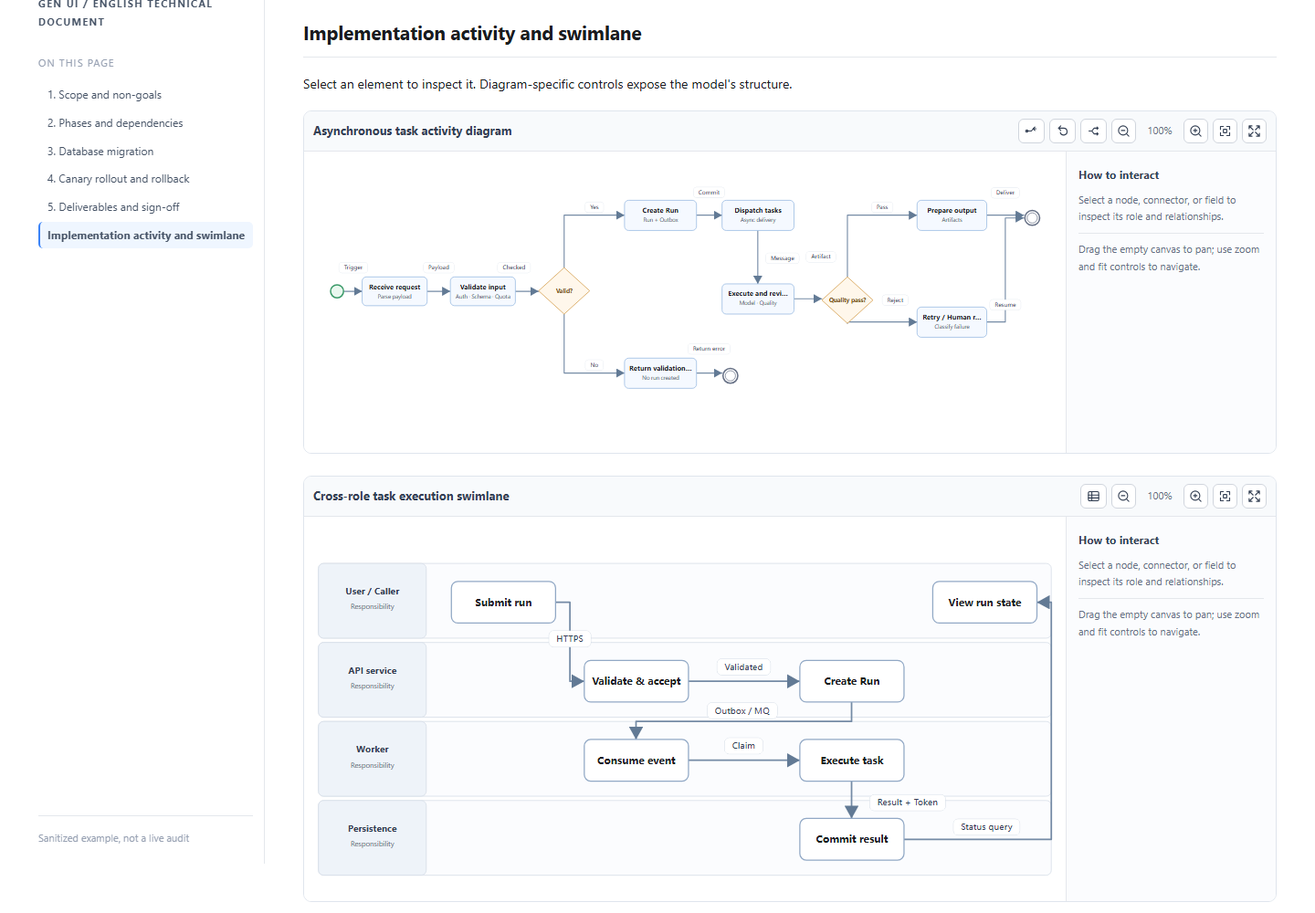
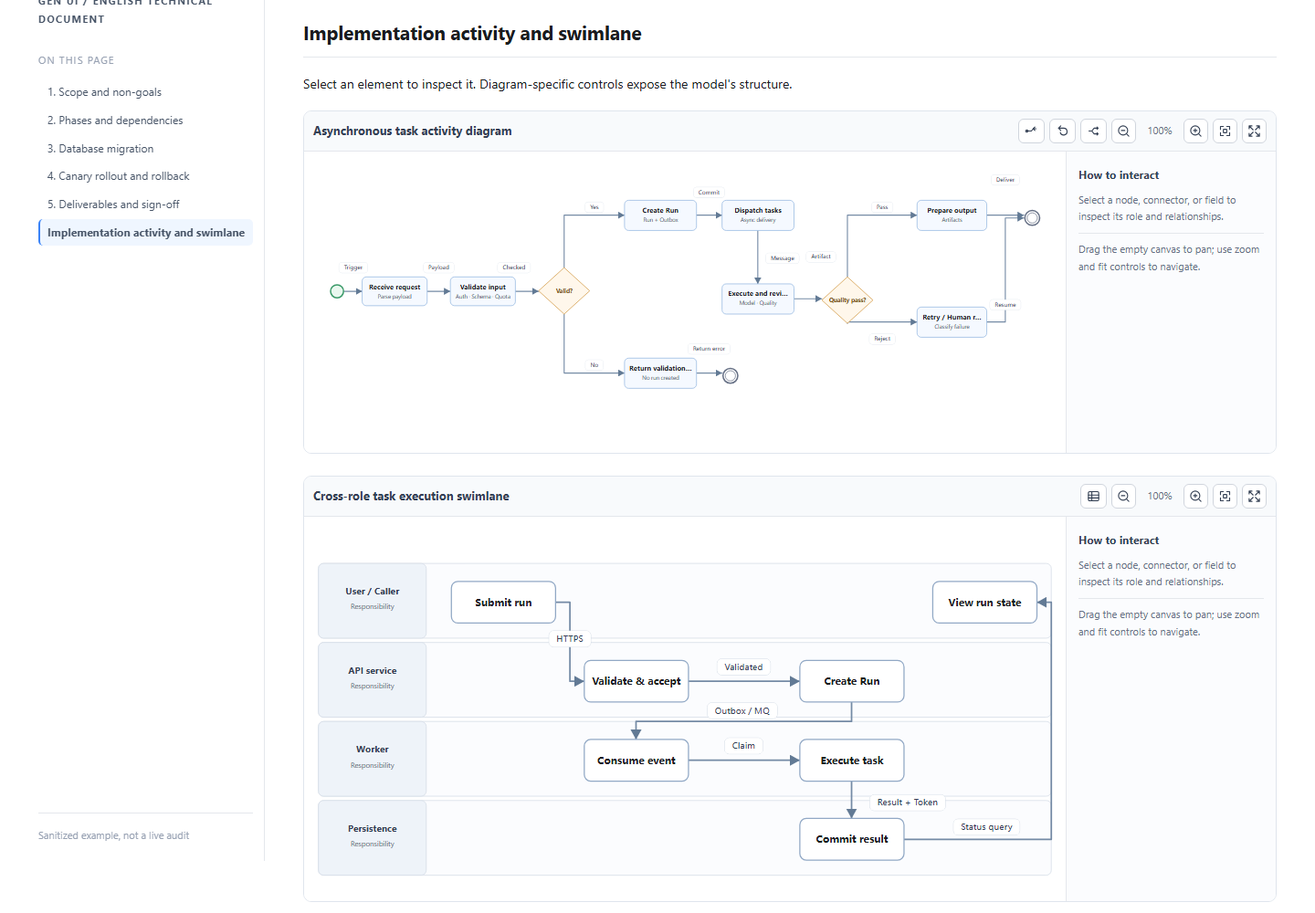
fix: 优化导航图标与自适应箭头并重绘真实工程架构案例
导航交互,语义图表,表格展示,架构案例,测试验收

gen-ui

diff --git a/demo/architecture-patterns.html b/demo/architecture-patterns.html
@@ -1,8 +1,18 @@
-<!doctype html><html lang="zh-CN"><head><meta charset="utf-8"><meta name="viewport" content="width=device-width,initial-scale=1"><title>GEN-UI · 八类架构展示</title><link rel="icon" href="../assets/icons/gen-ui-mark.svg" type="image/svg+xml"><link rel="stylesheet" href="../assets/architecture-views.css"><script src="../assets/architecture-views.js" defer></script><link rel="stylesheet" href="documents/assets/document.css"><link rel="stylesheet" href="../assets/heading-nav.css"><script src="../assets/heading-nav.js" defer></script></head><body><div class="doc-layout"><aside class="doc-toc" aria-label="架构目录"><p class="toc-label">架构目录</p><nav aria-label="架构目录"><ul class="toc-list"><li><a href="#arch-0">业务架构</a></li><li><a href="#arch-1">产品架构</a></li><li><a href="#arch-2">系统架构</a></li><li><a href="#arch-3">数据架构</a></li><li><a href="#arch-4">技术架构</a></li><li><a href="#arch-5">应用架构</a></li><li><a href="#arch-6">功能架构</a></li><li><a href="#arch-7">信息架构</a></li></ul></nav></aside><main class="doc-main" id="main"><h1>八类架构图 · 分层与容器呈现</h1><p>内容为示例，仅展示架构图的表达方式。结构/归属不需要强制添加连接线；依赖明确时才升级为关系图。</p><section><h2 id="arch-0">一、业务架构</h2><div data-architecture-view><script type="application/json">{"type":"业务架构","title":"业务架构结构示例","layout":"stack","groups":[{"name":"客户价值链","items":["用户触达","交易与服务","客户成功"]},{"name":"业务能力域","items":["用户与账户","订单与履约","结算与对账"]},{"name":"运营支撑","items":["规则配置","运营分析","风险治理"]}]}</script><noscript>客户价值链：用户触达、交易与服务、客户成功；业务能力域：用户与账户、订单与履约、结算与对账；运营支撑：规则配置、运营分析、风险治理</noscript></div></section>
-<section><h2 id="arch-1">二、产品架构</h2><div data-architecture-view><script type="application/json">{"type":"产品架构","title":"产品架构结构示例","layout":"groups","groups":[{"name":"用户端产品","items":["Web 控制台","移动端入口"]},{"name":"运营端产品","items":["运营后台","报表中心"]},{"name":"基础产品能力","items":["账户体系","权限管理"]}]}</script><noscript>用户端产品：Web 控制台、移动端入口；运营端产品：运营后台、报表中心；基础产品能力：账户体系、权限管理</noscript></div></section>
-<section><h2 id="arch-2">三、系统架构</h2><div data-architecture-view><script type="application/json">{"type":"系统架构","title":"系统架构结构示例","layout":"stack","groups":[{"name":"接入层","items":["Web / App","开放 API"]},{"name":"业务系统层","children":[{"name":"订单系统","items":["订单 API","订单履约"]},{"name":"任务系统","children":[{"name":"调度域","items":["任务队列","执行租约"]}]}]},{"name":"平台基础层","items":["认证中心","调度服务","数据存储"]}]}</script><noscript>接入层：Web / App、开放 API；业务系统层：订单系统、任务系统、管理系统；平台基础层：认证中心、调度服务、数据存储</noscript></div></section>
-<section><h2 id="arch-3">四、数据架构</h2><div data-architecture-view><script type="application/json">{"type":"数据架构","title":"数据架构结构示例","layout":"stack","groups":[{"name":"数据源","items":["业务事件","用户行为","系统日志"]},{"name":"治理与存储","items":["采集清洗","质量管理","主题数据"]},{"name":"数据消费","items":["指标分析","查询服务","业务报表"]}]}</script><noscript>数据源：业务事件、用户行为、系统日志；治理与存储：采集清洗、质量管理、主题数据；数据消费：指标分析、查询服务、业务报表</noscript></div></section>
-<section><h2 id="arch-4">五、技术架构</h2><div data-architecture-view><script type="application/json">{"type":"技术架构","title":"技术架构结构示例","layout":"stack","groups":[{"name":"接入技术","items":["HTTP API","网关与鉴权"]},{"name":"业务技术","items":["服务编排","异步任务","缓存"]},{"name":"基础设施","items":["数据库","消息队列","日志监控"]}]}</script><noscript>接入技术：HTTP API、网关与鉴权；业务技术：服务编排、异步任务、缓存；基础设施：数据库、消息队列、日志监控</noscript></div></section>
-<section><h2 id="arch-5">六、应用架构</h2><div data-architecture-view><script type="application/json">{"type":"应用架构","title":"应用架构结构示例","layout":"columns","groups":[{"name":"业务应用","items":["订单应用","客户应用"]},{"name":"平台应用","items":["任务中心","权限中心"]},{"name":"公共服务","items":["通知服务","搜索服务"]}]}</script><noscript>业务应用：订单应用、客户应用；平台应用：任务中心、权限中心；公共服务：通知服务、搜索服务</noscript></div></section>
-<section><h2 id="arch-6">七、功能架构</h2><div data-architecture-view><script type="application/json">{"type":"功能架构","title":"功能架构结构示例","layout":"groups","groups":[{"name":"管理功能","items":["资源管理","权限设置"]},{"name":"核心功能","items":["任务创建","执行追踪","结果审核"]},{"name":"分析功能","items":["数据统计","质量监控"]}]}</script><noscript>管理功能：资源管理、权限设置；核心功能：任务创建、执行追踪、结果审核；分析功能：数据统计、质量监控</noscript></div></section>
-<section><h2 id="arch-7">八、信息架构</h2><div data-architecture-view><script type="application/json">{"type":"信息架构","title":"信息架构结构示例","layout":"groups","groups":[{"name":"一级导航","items":["概览","项目","设置"]},{"name":"项目栏目","items":["列表","详情","日志"]},{"name":"帮助中心","items":["文档","反馈"]}]}</script><noscript>一级导航：概览、项目、设置；项目栏目：列表、详情、日志；帮助中心：文档、反馈</noscript></div></section></main></div></body></html>
+<!doctype html><html lang="zh-CN" data-heading-numbering="chinese"><head><meta charset="utf-8"><meta name="viewport" content="width=device-width,initial-scale=1">
+<title>GEN-UI · 八类真实工程架构案例</title><link rel="icon" href="../assets/icons/gen-ui-mark.svg" type="image/svg+xml">
+<link rel="stylesheet" href="../assets/architecture-views.css"><link rel="stylesheet" href="documents/assets/document.css"><link rel="stylesheet" href="../assets/heading-nav.css">
+<script src="../assets/architecture-views.js" defer></script><script src="../assets/heading-nav.js" defer></script>
+<style>.architecture-example{margin-bottom:32px}.architecture-context{font-size:12px;color:#667085;margin:6px 0 11px}.architecture-intro{color:#475467;line-height:1.7}.architecture-source{border-left:3px solid #8db4e8;padding:10px 13px;background:#f7faff;color:#475467;font-size:12px;margin:16px 0 25px}</style>
+</head><body><div class="doc-layout"><aside class="doc-toc" aria-label="架构目录"><p class="toc-brand">GEN-UI · 架构案例</p><p class="toc-label">八类架构</p><nav aria-label="架构目录"><ul class="toc-list"><li><a href="#arch-0">业务架构</a></li><li><a href="#arch-1">产品架构</a></li><li><a href="#arch-2">系统架构</a></li><li><a href="#arch-3">数据架构</a></li><li><a href="#arch-4">技术架构</a></li><li><a href="#arch-5">应用架构</a></li><li><a href="#arch-6">功能架构</a></li><li><a href="#arch-7">信息架构</a></li></ul></nav><div class="toc-foot">结构 + 真实模块 + 关键链路</div></aside>
+<main class="doc-main" id="main"><h1>八类架构图 · 分层与容器呈现</h1>
+<p class="architecture-intro">分别用业务、产品、系统、数据、技术、应用、功能、信息八种视角，拆解本地实际工程的领域边界、模块归属与关键调用方向。箭头只表示在工程资料中有依据的逻辑协作；连线名称决定箭头最小长度，避免文字与箭头相互遮挡。</p>
+<div class="architecture-source"><strong>案例依据：</strong>Yopu 项目现有后端模块与《项目架构全景》、Yopu IM 核心/消息记录模块，以及 StoryOS 的 platform/workflow/agent/trace 代码和架构文档。<strong>说明：</strong>这是基于仓库结构和设计资料的架构表达示例，不是实际生产环境部署拓扑或上线状态认证；没有包含内部 IP、端口或敏感配置。</div>
+<section class="architecture-example" aria-labelledby="arch-0"><h2 id="arch-0">一、业务架构</h2><p class="architecture-context">Yopu · 商户交易与结算价值链</p><div data-architecture-view><script type="application/json">{"type":"业务架构","title":"Yopu · 商户交易与结算价值链","layout":"stack","groups":[{"name":"客户与商户入口","items":["移动端业务入口（客户端不在当前后端仓库）","商户运营后台 yopu-merchant-ui","平台运营后台 yopu-platform-ui"]},{"name":"客户与经营能力","items":["yopu-crm 客户管理","yopu-merchant 商户管理","yopu-marketing 营销能力"]},{"name":"交易处理能力","items":["yopu-trade-order 交易订单","业务状态与订单查询","交易领域服务"]},{"name":"财务与运营支持","items":["yopu-billing-account 账户","yopu-billing-settle 结算","yopu-monitor 监控"]}],"flows":[{"from":"客户与商户入口","to":"客户与经营能力","label":"身份与客户资料经 Gateway 进入业务服务"},{"from":"客户与经营能力","to":"交易处理能力","label":"商户与客户信息支撑订单业务"},{"from":"交易处理能力","to":"财务与运营支持","label":"交易订单与账户结算的业务协作"}]}</script><noscript>客户与商户入口: 移动端业务入口（客户端不在当前后端仓库）、商户运营后台 yopu-merchant-ui、平台运营后台 yopu-platform-ui；客户与经营能力: yopu-crm 客户管理、yopu-merchant 商户管理、yopu-marketing 营销能力；交易处理能力: yopu-trade-order 交易订单、业务状态与订单查询、交易领域服务；财务与运营支持: yopu-billing-account 账户、yopu-billing-settle 结算、yopu-monitor 监控</noscript></div></section>
+<section class="architecture-example" aria-labelledby="arch-1"><h2 id="arch-1">二、产品架构</h2><p class="architecture-context">Yopu · 用户界面与后台产品模块</p><div data-architecture-view><script type="application/json">{"type":"产品架构","title":"Yopu · 用户界面与后台产品模块","layout":"groups","groups":[{"name":"商户经营产品","items":["商户运营 Web UI","业务操作与列表查询","商户业务入口"]},{"name":"平台管理产品","items":["平台运营 Web UI","管理端 Admin API","平台运营和配置"]},{"name":"移动与消息入口","items":["App / 小程序调用（外部客户端）","IM 会话消息入口","WebSocket 实时连接"]},{"name":"共享后端服务","items":["Gateway API 路由","CRM / Trade / IM","Platform Admin 服务"]}],"flows":[{"from":"商户经营产品","to":"共享后端服务","label":"商户控制台经 HTTP API 接入网关"},{"from":"平台管理产品","to":"共享后端服务","label":"平台后台调用 Admin API"},{"from":"移动与消息入口","to":"共享后端服务","label":"业务 HTTP 请求 / IM WebSocket 路由"}]}</script><noscript>商户经营产品: 商户运营 Web UI、业务操作与列表查询、商户业务入口；平台管理产品: 平台运营 Web UI、管理端 Admin API、平台运营和配置；移动与消息入口: App / 小程序调用（外部客户端）、IM 会话消息入口、WebSocket 实时连接；共享后端服务: Gateway API 路由、CRM / Trade / IM、Platform Admin 服务</noscript></div></section>
+<section class="architecture-example" aria-labelledby="arch-2"><h2 id="arch-2">三、系统架构</h2><p class="architecture-context">Yopu · 网关、微服务与基础设施</p><div data-architecture-view><script type="application/json">{"type":"系统架构","title":"Yopu · 网关、微服务与基础设施","layout":"stack","groups":[{"name":"接入层","items":["商户 / 平台 Web UI","移动客户端 API","IM WebSocket 连接"]},{"name":"路由与接入网关","items":["yopu-gateway-core","API 路由与鉴权","/ws 实时连接转发"]},{"name":"业务微服务层","children":[{"name":"核心业务域","items":["yopu-crm","yopu-trade-order","yopu-merchant"]},{"name":"通信与结算","items":["yopu-im-core","yopu-billing-account","yopu-billing-settle"]}]},{"name":"基础服务层","items":["Nacos 服务发现与配置","Redis 缓存","RabbitMQ 消息","MySQL 业务库"]}],"flows":[{"from":"接入层","to":"路由与接入网关","label":"HTTP / WebSocket 请求进入统一入口"},{"from":"路由与接入网关","to":"业务微服务层","label":"路由分发到对应领域服务"},{"from":"业务微服务层","to":"基础服务层","label":"注册发现、缓存、消息投递与数据读写"}]}</script><noscript>接入层: 商户 / 平台 Web UI、移动客户端 API、IM WebSocket 连接；路由与接入网关: yopu-gateway-core、API 路由与鉴权、/ws 实时连接转发；业务微服务层:  / 核心业务域：yopu-crm、yopu-trade-order、yopu-merchant / 通信与结算：yopu-im-core、yopu-billing-account、yopu-billing-settle；基础服务层: Nacos 服务发现与配置、Redis 缓存、RabbitMQ 消息、MySQL 业务库</noscript></div></section>
+<section class="architecture-example" aria-labelledby="arch-3"><h2 id="arch-3">四、数据架构</h2><p class="architecture-context">StoryOS · 工作流状态与证据数据</p><div data-architecture-view><script type="application/json">{"type":"数据架构","title":"StoryOS · 工作流状态与证据数据","layout":"stack","groups":[{"name":"业务输入与配置","items":["故事创作请求","Workflow 定义与阶段参数","模型/资源配置"]},{"name":"执行状态模型","items":["Workflow / Node 状态","Task / Attempt 执行记录","失败重试与断点恢复"]},{"name":"事件与证据模型","items":["Event 事件轨迹","Trace 链路追踪","Artifact 工件引用"]},{"name":"存储与恢复边界","items":["MySQL 状态和任务持久化","Redis 心跳/调度辅助","任务重启后的执行对账"]}],"flows":[{"from":"业务输入与配置","to":"执行状态模型","label":"工作流定义实例化为节点和独立任务"},{"from":"执行状态模型","to":"事件与证据模型","label":"执行尝试记录状态、事件与工件证据"},{"from":"事件与证据模型","to":"存储与恢复边界","label":"可追溯状态写入持久层并用于恢复校验"}]}</script><noscript>业务输入与配置: 故事创作请求、Workflow 定义与阶段参数、模型/资源配置；执行状态模型: Workflow / Node 状态、Task / Attempt 执行记录、失败重试与断点恢复；事件与证据模型: Event 事件轨迹、Trace 链路追踪、Artifact 工件引用；存储与恢复边界: MySQL 状态和任务持久化、Redis 心跳/调度辅助、任务重启后的执行对账</noscript></div></section>
+<section class="architecture-example" aria-labelledby="arch-4"><h2 id="arch-4">五、技术架构</h2><p class="architecture-context">Yopu · Spring Cloud Alibaba 技术分层</p><div data-architecture-view><script type="application/json">{"type":"技术架构","title":"Yopu · Spring Cloud Alibaba 技术分层","layout":"columns","groups":[{"name":"网络与协议","items":["HTTP / REST API","Spring Cloud Gateway","Netty WebSocket"]},{"name":"服务治理与持久化","items":["Spring Cloud Alibaba","Nacos 服务注册/配置","MyBatis-Plus"]},{"name":"状态与异步设施","items":["Redis 缓存与锁","RabbitMQ 消息传递","MySQL 业务持久化"]},{"name":"工程支撑","items":["公共 Starter / Common","Job 后台任务","Monitor 运行监控"]}],"flows":[{"from":"网络与协议","to":"服务治理与持久化","label":"统一协议入口与服务发现"},{"from":"服务治理与持久化","to":"状态与异步设施","label":"服务读写状态与异步投递"},{"from":"状态与异步设施","to":"工程支撑","label":"运行指标、后台调度与公共能力协同"}]}</script><noscript>网络与协议: HTTP / REST API、Spring Cloud Gateway、Netty WebSocket；服务治理与持久化: Spring Cloud Alibaba、Nacos 服务注册/配置、MyBatis-Plus；状态与异步设施: Redis 缓存与锁、RabbitMQ 消息传递、MySQL 业务持久化；工程支撑: 公共 Starter / Common、Job 后台任务、Monitor 运行监控</noscript></div></section>
+<section class="architecture-example" aria-labelledby="arch-5"><h2 id="arch-5">六、应用架构</h2><p class="architecture-context">Yopu · 领域微服务模块划分</p><div data-architecture-view><script type="application/json">{"type":"应用架构","title":"Yopu · 领域微服务模块划分","layout":"columns","groups":[{"name":"客户与商户域","items":["yopu-crm","yopu-merchant","yopu-marketing"]},{"name":"交易与财务域","items":["yopu-trade-order","yopu-billing-account","yopu-billing-settle"]},{"name":"实时通信域","items":["yopu-im-core","yopu-im-record","Netty WebSocket"]},{"name":"平台支撑域","items":["yopu-gateway-core","yopu-platform","yopu-job / yopu-monitor"]}],"flows":[{"from":"平台支撑域","to":"客户与商户域","label":"网关路由及平台公共服务接入"},{"from":"客户与商户域","to":"交易与财务域","label":"客户与商户信息用于交易、账户和结算"},{"from":"平台支撑域","to":"实时通信域","label":"网关 /ws 路由进入 IM Core"}]}</script><noscript>客户与商户域: yopu-crm、yopu-merchant、yopu-marketing；交易与财务域: yopu-trade-order、yopu-billing-account、yopu-billing-settle；实时通信域: yopu-im-core、yopu-im-record、Netty WebSocket；平台支撑域: yopu-gateway-core、yopu-platform、yopu-job / yopu-monitor</noscript></div></section>
+<section class="architecture-example" aria-labelledby="arch-6"><h2 id="arch-6">七、功能架构</h2><p class="architecture-context">StoryOS · AI 内容生产工作流</p><div data-architecture-view><script type="application/json">{"type":"功能架构","title":"StoryOS · AI 内容生产工作流","layout":"stack","groups":[{"name":"故事与分镜策划","items":["故事目标和约束","故事策划 Agent","分镜任务定义"]},{"name":"图片生产与任务分解","items":["按分镜拆分独立 Task","模型调用与并发执行","Task Attempt 重试"]},{"name":"质量审核与恢复","items":["角色一致性/画面质量审核","质量失败与技术失败分流","断点恢复及执行对账"]},{"name":"交付与可观测性","items":["发布准备与结果清单","Event / Trace / Artifact","执行状态和工件追踪"]}],"flows":[{"from":"故事与分镜策划","to":"图片生产与任务分解","label":"分镜逐项映射为独立可恢复的生成任务"},{"from":"图片生产与任务分解","to":"质量审核与恢复","label":"每次生成尝试进入质量校验或错误重试"},{"from":"质量审核与恢复","to":"交付与可观测性","label":"合格工件附带执行证据进入发布准备"}]}</script><noscript>故事与分镜策划: 故事目标和约束、故事策划 Agent、分镜任务定义；图片生产与任务分解: 按分镜拆分独立 Task、模型调用与并发执行、Task Attempt 重试；质量审核与恢复: 角色一致性/画面质量审核、质量失败与技术失败分流、断点恢复及执行对账；交付与可观测性: 发布准备与结果清单、Event / Trace / Artifact、执行状态和工件追踪</noscript></div></section>
+<section class="architecture-example" aria-labelledby="arch-7"><h2 id="arch-7">八、信息架构</h2><p class="architecture-context">Yopu IM · 会话、消息与管理信息</p><div data-architecture-view><script type="application/json">{"type":"信息架构","title":"Yopu IM · 会话、消息与管理信息","layout":"groups","groups":[{"name":"会话与联系人","items":["会话列表","聊天会话标识","用户/群组上下文"]},{"name":"实时消息视图","items":["消息正文与发送方","消息列表及序列","WebSocket 连接状态"]},{"name":"送达与记录","items":["客户端 ACK 状态","消息历史记录","会话消息索引"]},{"name":"后台管理与审核","items":["IM 内部管理 API","消息内容审核相关控制器","会话归档与采集任务"]}],"flows":[{"from":"会话与联系人","to":"实时消息视图","label":"按会话定位消息列表和实时通信内容"},{"from":"实时消息视图","to":"送达与记录","label":"消息发送、送达回执与历史记录关联"},{"from":"送达与记录","to":"后台管理与审核","label":"消息归档、采集与管理信息聚合"}]}</script><noscript>会话与联系人: 会话列表、聊天会话标识、用户/群组上下文；实时消息视图: 消息正文与发送方、消息列表及序列、WebSocket 连接状态；送达与记录: 客户端 ACK 状态、消息历史记录、会话消息索引；后台管理与审核: IM 内部管理 API、消息内容审核相关控制器、会话归档与采集任务</noscript></div></section>
+</main></div></body></html>

diff --git a/assets/semantic-diagrams.js b/assets/semantic-diagrams.js
@@ -215,7 +215,7 @@
    const g=svg("g",{class:"semantic-edge", "data-selectable":"true","data-id":uniqueId,"data-source":spec.from,"data-target":spec.to,"data-kind":"relationship","data-title":text(spec.label,lang),"data-summary":text(spec.detail||T("该连线表示两个元素之间的关系。","This connector represents a relationship between two elements."),lang),"tabindex":"0","role":"button"},svgRoot);
   svg("path",{d:spec.d,fill:"none",stroke:"#748aa5","stroke-width":"2.2","stroke-linecap":"round","stroke-linejoin":"round","marker-end":"url(#"+svgRoot.dataset.markerId+")","stroke-dasharray":spec.dashed?"6 5":null},g);
   const value=text(spec.label,lang);
-  if(value){const w=labelWidth(value,lang),x=spec.lx-w/2,y=spec.ly-11;const chip=svg("g",{class:"semantic-edge-chip","data-selectable":"true","data-id":g.dataset.id,"data-source":spec.from,"data-target":spec.to,"data-kind":"relationship","data-title":g.dataset.title,"data-summary":g.dataset.summary,"data-detail":text(spec.detail||spec.label,lang),"data-base-x":spec.lx,"data-base-y":spec.ly,tabindex:"0",role:"button","aria-label":value},svgRoot);svg("rect",{class:"semantic-edge-label-bg",x,y,width:w,height:22,rx:6,fill:"#fff",stroke:"#d0d5dd","stroke-width":"1"},chip);svg("text",{class:"semantic-edge-label",x:spec.lx,y:spec.ly+4,"text-anchor":"middle","font-size":"12","font-family":"system-ui,sans-serif",fill:"#344054"},chip,value);svg("title",{},chip,value);if(spec.messageIndex!==undefined){g.dataset.messageIndex=spec.messageIndex;chip.dataset.messageIndex=spec.messageIndex;}if(spec.path){g.dataset.path=spec.path;chip.dataset.path=spec.path;}}
+  if(value){const w=labelWidth(value,lang),x=spec.lx-w/2,y=spec.ly-11;const chip=svg("g",{class:"semantic-edge-chip","data-selectable":"true","data-id":g.dataset.id,"data-source":spec.from,"data-target":spec.to,"data-kind":"relationship","data-title":g.dataset.title,"data-summary":g.dataset.summary,"data-detail":text(spec.detail||spec.label,lang),"data-base-x":spec.lx,"data-base-y":spec.ly,"data-label-span":spec.labelSpan||"",tabindex:"0",role:"button","aria-label":value},svgRoot);svg("rect",{class:"semantic-edge-label-bg",x,y,width:w,height:22,rx:6,fill:"#fff",stroke:"#d0d5dd","stroke-width":"1"},chip);svg("text",{class:"semantic-edge-label",x:spec.lx,y:spec.ly+4,"text-anchor":"middle","font-size":"12","font-family":"system-ui,sans-serif",fill:"#344054"},chip,value);svg("title",{},chip,value);if(spec.messageIndex!==undefined){g.dataset.messageIndex=spec.messageIndex;chip.dataset.messageIndex=spec.messageIndex;}if(spec.path){g.dataset.path=spec.path;chip.dataset.path=spec.path;}}
   return g;
  }
  function selectable(g,id,kind,title,summary,detail){g.dataset.selectable="true";g.dataset.id=id;g.dataset.kind=kind;g.dataset.title=text(title,window.__genUiLang);g.dataset.summary=text(summary||title,window.__genUiLang);g.dataset.detail=text(detail||summary||title,window.__genUiLang);g.setAttribute("tabindex","0");g.setAttribute("role","button");g.setAttribute("aria-label",g.dataset.title);}
@@ -253,13 +253,29 @@
   });
   return g;
  }
- function renderSequence(root,m,lang,height){
-  const xs=m.participants.map((p,i)=>145+i*210),map={};m.participants.forEach((p,i)=>map[p.id]=xs[i]);
+ function measureEdgeText(value,lang){
+ const str=text(value,lang),canvas=measureEdgeText.canvas||(measureEdgeText.canvas=document.createElement("canvas"));
+ const context=canvas.getContext("2d");
+ if(!context)return [...str].reduce((n,c)=>n+(c.codePointAt(0)>255?12:7),0);
+ context.font="12px system-ui, sans-serif";
+ return Math.ceil(context.measureText(str).width);
+}
+function sequencePositions(m,lang){
+ const xs=[145];
+ for(let i=1;i<m.participants.length;i++){
+  const prev=m.participants[i-1].id,current=m.participants[i].id;
+  const widest=m.messages.filter(x=>(x.from===prev&&x.to===current)||(x.to===prev&&x.from===current)).reduce((n,x)=>Math.max(n,measureEdgeText(x.label,lang)),0);
+  xs.push(xs[i-1]+Math.max(210,Math.min(640,widest+56)));
+ }
+ return xs;
+}
+function renderSequence(root,m,lang,height,xs){
+  const map={};m.participants.forEach((p,i)=>map[p.id]=xs[i]);
   m.participants.forEach((p,i)=>actorNode(root,p,lang,xs[i],height));
   m.participants.slice(1).forEach(p=>{const msgs=m.messages.map((x,i)=>({from:x.from,to:x.to,y:x.y??155+i*75})).filter(x=>x.from===p.id||x.to===p.id);if(!msgs.length)return;const from=Math.min(...msgs.map(x=>x.y)),to=Math.max(...msgs.map(x=>x.y));svg("rect",{class:"semantic-activation",x:map[p.id]-6,y:from+10,width:12,height:Math.max(32,to-from-10),rx:3,fill:"#dceafe",stroke:"#5b91d6","stroke-width":"1"},root);});
   m.messages.forEach((msg,i)=>{
    const x1=map[msg.from],x2=map[msg.to],y=msg.y??155+i*75,ret=msg.kind==="return";
-   const edgeSpec={from:msg.from,to:msg.to,label:msg.label,lx:(x1+x2)/2,ly:y-17,d:"M"+x1+" "+y+" H"+x2,dashed:ret,detail:msg.detail,messageIndex:i};
+   const edgeSpec={from:msg.from,to:msg.to,label:msg.label,lx:(x1+x2)/2,ly:y-17,d:"M"+x1+" "+y+" H"+x2,dashed:ret,detail:msg.detail,messageIndex:i,labelSpan:Math.abs(x2-x1)};
    const g=edge(root,edgeSpec,lang);g.dataset.messageIndex=i;g.dataset.kind="message";g.dataset.title=text(msg.label,lang);g.dataset.summary=text(T("消息类型："+(ret?"返回":msg.kind==="async"?"异步":"同步"),"Message type: "+(ret?"return":msg.kind),lang),lang);g.dataset.detail=text(msg.detail,lang);
    if(msg.kind==="async")g.querySelector("path").setAttribute("stroke","#3a83f7");
   });
@@ -333,13 +349,14 @@
  }
  function render(model,type,root,lang){
   const requestedWidth=model.canvas?.width??(type==="sequence"?960:type==="mind"?920:type==="deploy"?1100:type==="er"?1040:type==="activity"?1640:type==="swim"?1060:1100);
-   const w=type==="sequence"?Math.max(requestedWidth,145+210*(model.participants.length-1)+100):requestedWidth;
+   const sequenceXs=type==="sequence"?sequencePositions(model,lang):null;
+   const w=type==="sequence"?Math.max(requestedWidth,sequenceXs[sequenceXs.length-1]+110):requestedWidth;
   const requestedHeight=model.canvas?.height??(type==="sequence"?620:type==="mind"?590:type==="deploy"?560:type==="er"?560:type==="activity"?590:type==="swim"?535:550);
    const h=type==="sequence"?Math.max(requestedHeight,Math.max(...model.messages.map((m,i)=>m.y??155+i*75))+95):requestedHeight;
   const svgRoot=svg("svg",{class:"semantic-svg",viewBox:"0 0 "+w+" "+h,role:"img","aria-label":text(model.title,lang),"preserveAspectRatio":"xMinYMin meet"},root);
   svg("title",{},svgRoot,text(model.title,lang));svg("desc",{},svgRoot,text(model.desc,lang));
-  const markerId="semantic-arrow-"+type+"-"+(++instanceCounter);svgRoot.dataset.markerId=markerId;const defs=svg("defs",{},svgRoot),marker=svg("marker",{id:markerId,viewBox:"0 0 10 10",markerWidth:"9",markerHeight:"9",refX:"9",refY:"5",orient:"auto"},defs);svg("path",{d:"M0 0 L9 5 L0 10 Z",fill:"#627a95"},marker);
-  if(type==="sequence")renderSequence(svgRoot,model,lang,h);
+  const markerId="semantic-arrow-"+type+"-"+(++instanceCounter);svgRoot.dataset.markerId=markerId;const defs=svg("defs",{},svgRoot),marker=svg("marker",{id:markerId,viewBox:"0 0 10 10",markerWidth:"7",markerHeight:"7",refX:"9",refY:"5",orient:"auto"},defs);svg("path",{d:"M0 0 L9 5 L0 10 Z",fill:"#627a95"},marker);
+  if(type==="sequence")renderSequence(svgRoot,model,lang,h,sequenceXs);
   if(type==="mind")renderMind(svgRoot,model,lang);
   if(type==="deploy")renderDeploy(svgRoot,model,lang);
   if(type==="er")renderER(svgRoot,model,lang);
@@ -372,7 +389,7 @@
    chip.classList.remove("is-layout-fallback");const bg=chip.querySelector(".semantic-edge-label-bg"),caption=chip.querySelector(".semantic-edge-label");
    if(!bg||!caption)continue;
    const fullText=chip.querySelector("title")?.textContent||caption.textContent;caption.textContent=fullText;
-   const maxWidth=Math.min(244,graph.w-40);const chars=Array.from(fullText);
+   const available=Number(chip.dataset.labelSpan)||244;const maxWidth=Math.min(560,Math.max(44,available-34),graph.w-40);const chars=Array.from(fullText);
    if(caption.getComputedTextLength()>maxWidth){let lo=0,hi=chars.length;while(lo<hi){const mid=Math.ceil((lo+hi)/2);caption.textContent=chars.slice(0,mid).join("")+"…";if(caption.getComputedTextLength()<=maxWidth)lo=mid;else hi=mid-1;}caption.textContent=chars.slice(0,lo).join("")+"…";}
    chip.dataset.truncated=String(caption.textContent!==fullText);const w=Math.max(36,Math.ceil(caption.getComputedTextLength()+20)),h=22;
    const cx=Number(chip.dataset.baseX),cy=Number(chip.dataset.baseY);

diff --git a/demo/report.html b/demo/report.html
@@ -13,6 +13,7 @@
   <link rel="stylesheet" href="./report-refinements.css">
   <script src="./chart-refresh.js" defer></script>
   <script src="./pager-refresh.js" defer></script>
+  <script src="../assets/flow-label-layout.js" defer></script>
   <script src="../assets/media-viewer.js" defer></script>
   <script src="./report.js" defer></script>
   <script src="../assets/code-blocks.js" defer></script>
@@ -79,7 +80,7 @@
       <button id="flow-fullscreen" type="button" aria-pressed="false" aria-label="全屏查看流程图" title="全屏查看流程图"><svg viewBox="0 0 20 20" aria-hidden="true"><path d="M3 7V3h4M13 3h4v4M17 13v4h-4M7 17H3v-4"/></svg></button>
     </div></div>
   <div id="flow-canvas" class="flow-canvas" tabindex="0" role="region" aria-label="可拖动和缩放的离线SVG流程图">
-<svg id="flow-svg" xmlns="http://www.w3.org/2000/svg" width="620" height="180" viewBox="0 0 620 180" role="img" aria-labelledby="title desc"><title id="title">工程数据分析流程</title><desc id="desc">记录接入、条件筛选、指标统计、明细核验四个连续步骤。连线标签位于专用上方通道，使用不透明背景避免文字被线条和节点遮挡。</desc><defs><marker id="arrow" viewBox="0 0 10 10" markerWidth="9" markerHeight="9" refX="9" refY="5" orient="auto"><path d="M0 0 L9 5 L0 10 Z" fill="#64748b"/></marker></defs><g class="flow-edges" fill="none" stroke="#7188a2" stroke-width="2.2" stroke-linecap="round" stroke-linejoin="round"><path d="M136 108 V55 H168 V70" marker-end="url(#arrow)"/><path d="M296 108 V55 H328 V70" marker-end="url(#arrow)"/><path d="M456 108 V55 H488 V70" marker-end="url(#arrow)"/></g><g class="flow-edge-labels" font-family="system-ui,sans-serif" font-size="11" text-anchor="middle"><g><rect class="flow-edge-label-bg" x="108" y="29" width="88" height="20" rx="6" fill="#fff" stroke="#cbd5e1"/><text x="152" y="43" fill="#344054">原始输入</text></g><g><rect class="flow-edge-label-bg" x="268" y="29" width="88" height="20" rx="6" fill="#fff" stroke="#cbd5e1"/><text x="312" y="43" fill="#344054">筛选结果</text></g><g><rect class="flow-edge-label-bg" x="428" y="29" width="88" height="20" rx="6" fill="#fff" stroke="#cbd5e1"/><text x="472" y="43" fill="#344054">统计明细</text></g></g><g class="flow-nodes" font-family="Microsoft YaHei, PingFang SC, sans-serif" text-anchor="middle"><g><rect x="8" y="70" width="128" height="76" rx="8" fill="#ecf5ff" stroke="#9dbce3"/><text x="72" y="101" font-size="15" font-weight="600" fill="#1a1c1f">记录接入</text><text x="72" y="124" font-size="11" fill="#667085">统一数据源</text></g><g><rect x="168" y="70" width="128" height="76" rx="8" fill="#f0f9eb" stroke="#9acb9a"/><text x="232" y="101" font-size="15" font-weight="600" fill="#1a1c1f">条件筛选</text><text x="232" y="124" font-size="11" fill="#667085">模块 · 状态 · 批次</text></g><g><rect x="328" y="70" width="128" height="76" rx="8" fill="#fdf6ec" stroke="#e4c18d"/><text x="392" y="101" font-size="15" font-weight="600" fill="#1a1c1f">指标统计</text><text x="392" y="124" font-size="11" fill="#667085">数量 · 分布 · 趋势</text></g><g><rect x="488" y="70" width="124" height="76" rx="8" fill="#f4f4ff" stroke="#b4a0e3"/><text x="550" y="101" font-size="15" font-weight="600" fill="#1a1c1f">明细核验</text><text x="550" y="124" font-size="11" fill="#667085">定位具体记录</text></g></g></svg>
+<svg id="flow-svg" xmlns="http://www.w3.org/2000/svg" width="620" height="180" viewBox="0 0 620 180" role="img" aria-labelledby="title desc"><title id="title">工程数据分析流程</title><desc id="desc">记录接入、条件筛选、指标统计、明细核验四个连续步骤。连线标签位于专用上方通道，使用不透明背景避免文字被线条和节点遮挡。</desc><defs><marker id="arrow" viewBox="0 0 10 10" markerWidth="7" markerHeight="7" refX="9" refY="5" orient="auto"><path d="M0 0 L9 5 L0 10 Z" fill="#64748b"/></marker></defs><g class="flow-edges" fill="none" stroke="#7188a2" stroke-width="2.2" stroke-linecap="round" stroke-linejoin="round"><path d="M136 108 V55 H168 V70" marker-end="url(#arrow)"/><path d="M296 108 V55 H328 V70" marker-end="url(#arrow)"/><path d="M456 108 V55 H488 V70" marker-end="url(#arrow)"/></g><g class="flow-edge-labels" font-family="system-ui,sans-serif" font-size="11" text-anchor="middle"><g><rect class="flow-edge-label-bg" x="108" y="29" width="88" height="20" rx="6" fill="#fff" stroke="#cbd5e1"/><text x="152" y="43" fill="#344054">原始输入</text></g><g><rect class="flow-edge-label-bg" x="268" y="29" width="88" height="20" rx="6" fill="#fff" stroke="#cbd5e1"/><text x="312" y="43" fill="#344054">筛选结果</text></g><g><rect class="flow-edge-label-bg" x="428" y="29" width="88" height="20" rx="6" fill="#fff" stroke="#cbd5e1"/><text x="472" y="43" fill="#344054">统计明细</text></g></g><g class="flow-nodes" font-family="Microsoft YaHei, PingFang SC, sans-serif" text-anchor="middle"><g><rect x="8" y="70" width="128" height="76" rx="8" fill="#ecf5ff" stroke="#9dbce3"/><text x="72" y="101" font-size="15" font-weight="600" fill="#1a1c1f">记录接入</text><text x="72" y="124" font-size="11" fill="#667085">统一数据源</text></g><g><rect x="168" y="70" width="128" height="76" rx="8" fill="#f0f9eb" stroke="#9acb9a"/><text x="232" y="101" font-size="15" font-weight="600" fill="#1a1c1f">条件筛选</text><text x="232" y="124" font-size="11" fill="#667085">模块 · 状态 · 批次</text></g><g><rect x="328" y="70" width="128" height="76" rx="8" fill="#fdf6ec" stroke="#e4c18d"/><text x="392" y="101" font-size="15" font-weight="600" fill="#1a1c1f">指标统计</text><text x="392" y="124" font-size="11" fill="#667085">数量 · 分布 · 趋势</text></g><g><rect x="488" y="70" width="124" height="76" rx="8" fill="#f4f4ff" stroke="#b4a0e3"/><text x="550" y="101" font-size="15" font-weight="600" fill="#1a1c1f">明细核验</text><text x="550" y="124" font-size="11" fill="#667085">定位具体记录</text></g></g></svg>
   </div><p class="flow-hint">拖动平移 · ＋/− 缩放 · 0 适应窗口 · Esc 退出全屏</p>
 </div>
         <div class="overview-copy">

diff --git a/assets/architecture-views.js b/assets/architecture-views.js
@@ -11,7 +11,7 @@ const ICONS={
  collapse:'<svg viewBox="0 0 24 24" aria-hidden="true"><path d="M8 8H3m5 0V3m8 5h5m-5 0V3m0 13h5m-5 0v5M8 16H3m5 0v5"/></svg>'
 };
 function validate(m){
- if(!m||typeof m!=="object"||Array.isArray(m)||Object.keys(m).some(k=>!["type","title","layout","groups"].includes(k)))throw Error("invalid architecture");
+ if(!m||typeof m!=="object"||Array.isArray(m)||Object.keys(m).some(k=>!["type","title","layout","groups","flows"].includes(k)))throw Error("invalid architecture");
  if(!TYPES.includes(m.type)||!LAYOUTS.includes(m.layout)||typeof m.title!=="string"||!m.title.trim()||m.title.length>100)throw Error("invalid metadata");
  if(!Array.isArray(m.groups)||m.groups.length<1||m.groups.length>16)throw Error("invalid groups");
  const checkGroup=(g,depth=1)=>{
@@ -23,6 +23,10 @@ function validate(m){
   children.forEach(child=>checkGroup(child,depth+1));
  };
  m.groups.forEach(g=>checkGroup(g));
+  if(m.flows!==undefined){
+   const names=new Set(m.groups.map(g=>g.name));
+   if(!Array.isArray(m.flows)||m.flows.length>12||m.flows.some(f=>!f||Array.isArray(f)||Object.keys(f).some(k=>!["from","to","label"].includes(k))||!names.has(f.from)||!names.has(f.to)||f.from===f.to||typeof f.label!=="string"||!f.label.trim()||f.label.length>100))throw Error("invalid architecture flows");
+  }
  return m;
 }
 const el=(tag,cls,text)=>{const node=document.createElement(tag);if(cls)node.className=cls;if(text!==undefined)node.textContent=text;return node;};
@@ -46,6 +50,21 @@ function init(host){
  head.append(actions);
  const renderGroup=(group)=>{const section=el("details","architecture-group");section.open=true;section.append(el("summary","architecture-group-title",group.name));const items=el("div","architecture-items");(group.items||[]).forEach(item=>items.append(el("div","architecture-item",item)));(group.children||[]).forEach(child=>items.append(renderGroup(child)));section.append(items);return section;};
  model.groups.forEach(group=>layers.append(renderGroup(group)));
+  if(model.flows?.length){
+   const flows=el("section","architecture-flows"),title=el("h3","architecture-flows-title","关键链路 · 按模块归属标注");
+   const list=el("div","architecture-flow-list");flows.append(title,list);
+   model.flows.forEach((f,i)=>{
+    const row=el("div","architecture-flow-row"),start=el("span","architecture-flow-endpoint",f.from),end=el("span","architecture-flow-endpoint",f.to);
+    const connector=el("span","architecture-flow-connector"),label=el("span","architecture-flow-label",f.label);
+    const track=el("span","architecture-flow-track");
+    track.innerHTML='<span class="architecture-flow-line"></span><svg viewBox="0 0 12 12" aria-hidden="true"><path d="M1 1 L11 6 L1 11 Z" fill="currentColor"/></svg>';
+    connector.append(label,track);row.append(start,connector,end);
+    row.dataset.flowIndex=String(i);
+    row.setAttribute("aria-label",f.from+"，"+f.label+"，"+f.to);
+    list.append(row);
+   });
+   stage.append(flows);
+  }
  stage.append(layers);frame.append(head,stage);host.append(frame);update();sync();
 }
 if(typeof module!=="undefined"&&module.exports)module.exports={validate};

diff --git a/assets/flow-label-layout.js b/assets/flow-label-layout.js
@@ -1,0 +1,63 @@
+/* GEN-UI compact workflow: connector span responds to actual label glyph widths. */
+"use strict";
+(() => {
+ function layout(root=document.getElementById("flow-svg")){
+  if(!root)return false;
+  const nodes=[...root.querySelectorAll(".flow-nodes > g")];
+  const edges=[...root.querySelectorAll(".flow-edges > path")];
+  const chips=[...root.querySelectorAll(".flow-edge-labels > g")];
+  if(nodes.length<2||edges.length!==nodes.length-1||chips.length!==edges.length)return false;
+  let x=8;
+  const measures=nodes.map(group=>{
+   const rect=group.querySelector("rect"),texts=[...group.querySelectorAll(":scope > text")];
+   if(!rect||!texts.length)return null;
+   const originalX=Number(rect.getAttribute("x")),originalW=Number(rect.dataset.originalWidth||(rect.dataset.originalWidth=rect.getAttribute("width")));
+   const measured=Math.max(originalW,...texts.map(t=>Math.ceil(t.getComputedTextLength())+24));
+   return {group,rect,texts,originalX,width:measured,left:0};
+  });
+  if(measures.some(x=>!x))return false;
+  const labels=chips.map(chip=>{
+   const bg=chip.querySelector("rect"),text=chip.querySelector("text");
+   if(!bg||!text)return null;
+   return {bg,text,width:Math.max(34,Math.ceil(text.getComputedTextLength())+18)};
+  });
+  if(labels.some(x=>!x))return false;
+  for(let i=0;i<measures.length;i++){
+   const n=measures[i];n.left=x;
+   n.group.setAttribute("transform","translate("+(n.left-n.originalX)+" 0)");
+   n.rect.setAttribute("width",n.width);
+   n.texts.forEach(t=>t.setAttribute("x",n.originalX+n.width/2));
+   x+=n.width;
+   if(i<labels.length)x+=Math.max(72,labels[i].width+28);
+  }
+  for(let i=0;i<edges.length;i++){
+   const a=measures[i],b=measures[i+1],label=labels[i];
+   const start=a.left+a.width+6,end=b.left-9,center=(start+end)/2;
+   edges[i].setAttribute("d","M"+start+" 108 H"+end);
+   edges[i].dataset.arrowDirection="right";
+   label.bg.setAttribute("x",center-label.width/2);
+   label.bg.setAttribute("y","78");
+   label.bg.setAttribute("width",label.width);
+   label.bg.setAttribute("height","21");
+   label.text.setAttribute("x",center);
+   label.text.setAttribute("y","92");
+   label.bg.dataset.labelWidth=String(label.width);
+   edges[i].dataset.labelWidth=String(label.width);
+   edges[i].dataset.connectorLength=String(end-start);
+  }
+  const width=Math.ceil(x+8);
+  root.setAttribute("viewBox","0 0 "+width+" 180");
+  root.setAttribute("width",String(width));
+  root.dataset.adaptiveConnections="true";
+  return true;
+ }
+ const init=()=>{
+  layout();
+  // Keep the fitted viewBox stable once the zoom/pan controller captures it.
+ };
+ if(typeof document!=="undefined"){
+  if(document.readyState==="loading")document.addEventListener("DOMContentLoaded",init,{once:true});
+  else init();
+  window.GenUIFlowLabelLayout={layout};
+ }
+})();

diff --git a/demo/report-refinements.css b/demo/report-refinements.css
@@ -87,17 +87,16 @@ dialog.modal{width:min(620px,94vw)}
 .toolbar-actions button.genui-action-icon,.dialog-actions button.genui-action-icon,.filters button.genui-action-icon,.paging-actions button.genui-action-icon,.inline-button.genui-action-icon{width:27px;min-width:27px;display:inline-grid;place-items:center;padding:4px;border-radius:5px}
 .genui-action-icon svg{display:block;width:15px;height:15px;fill:none;stroke:currentColor;stroke-width:1.8;stroke-linecap:round;stroke-linejoin:round}
 .status{gap:0;padding:2px 7px;font-size:12px}
-.compare-value{display:inline-block;padding:1px 6px;border-radius:4px;font-weight:650;white-space:nowrap}
-.compare-value--success{color:#23764f;background:#edf8f2}.compare-value--failure{color:#a33b3b;background:#fff1f0}
-.compare-value--warning{color:#8a5a12;background:#fff8e8}.compare-value--neutral{color:#344054;background:#f5f7fa}
+.compare-value{display:inline;font-weight:650;white-space:normal}
+.compare-value--success{color:#23764f}.compare-value--failure{color:#a33b3b}
+.compare-value--warning{color:#8a5a12}.compare-value--neutral{color:#344054}
 @media(max-width:700px){.toolbar-actions button.genui-action-icon,.dialog-actions button.genui-action-icon,.filters button.genui-action-icon,.paging-actions button.genui-action-icon,.inline-button.genui-action-icon{width:30px;min-width:30px;height:30px;min-height:30px}}
 
 /* Preserve native table-cell layout; highlight key comparisons directly on td. */
-td[data-compare-status="success"]{color:#23764f;background:#f4fbf7;font-weight:650}
-td[data-compare-status="failure"]{color:#a33b3b;background:#fff1f0;font-weight:650}
-td[data-compare-status="warning"]{color:#8a5a12;background:#fff8e8;font-weight:650}
+td[data-compare-status="success"]{color:#23764f;font-weight:650}
+td[data-compare-status="failure"]{color:#a33b3b;font-weight:650}
+td[data-compare-status="warning"]{color:#8a5a12;font-weight:650}
 td[data-compare-status="neutral"]{color:#344054}
 
-/* Comparison emphasis is typographic, not a colored block. */
-.compare-value,.compare-value--success,.compare-value--failure,.compare-value--warning,.compare-value--neutral{background:transparent!important}
-td[data-compare-status]{background:transparent!important}
+/* Comparison emphasis changes text only. Keep cell borders, padding and row backgrounds. */
+.compare-value{background:none;border:0;box-shadow:none;border-radius:0;padding:0}

diff --git a/assets/architecture-views.css b/assets/architecture-views.css
@@ -15,3 +15,19 @@
 .architecture-view:fullscreen,.architecture-view.architecture-fallback-fullscreen{position:fixed;inset:0;z-index:18100;width:100vw;height:100dvh;border:0;border-radius:0;background:#fff;display:flex;flex-direction:column}
 .architecture-view:fullscreen .architecture-stage,.architecture-fallback-fullscreen .architecture-stage{flex:1;min-height:0;overflow:auto}
 @media(max-width:700px){.architecture-head{flex-wrap:wrap}.architecture-actions{margin-left:0}.architecture-groups,.architecture-columns{grid-template-columns:1fr}}
+
+/* Evidence-based architecture relationships; text determines connector span. */
+.architecture-flows{margin-top:14px;padding:13px;border:1px solid #dce4ef;border-radius:8px;background:#fbfcff}
+.architecture-flows-title{margin:0 0 11px;font-size:12px;font-weight:680;color:#344054}
+.architecture-flow-list{display:grid;gap:10px}
+.architecture-flow-row{display:flex;align-items:center;min-width:max-content;gap:10px}
+.architecture-flow-endpoint{flex:0 0 152px;display:grid;align-items:center;justify-items:center;min-height:37px;padding:7px 10px;border:1px solid #a9c2e6;background:#fff;border-radius:6px;font-size:12px;font-weight:650;line-height:1.3;color:#24486e;text-align:center}
+.architecture-flow-connector{display:flex;flex-direction:column;align-items:center;justify-content:center;min-width:100px;width:max-content;flex:0 0 auto;padding-inline:12px;gap:3px;color:#47698d}
+.architecture-flow-label{font-size:11px;line-height:1.3;white-space:nowrap;color:#455975;min-width:100%;text-align:center}
+.architecture-flow-track{height:14px;width:100%;display:block}
+.architecture-flow-track{display:flex;align-items:center;min-width:100px}
+.architecture-flow-line{display:block;flex:1;height:2px;background:currentColor}
+.architecture-flow-track svg{display:block;flex:0 0 12px;width:12px;height:12px;overflow:visible}
+.architecture-group{box-shadow:0 1px 3px rgba(27,52,83,.035)}
+.architecture-item{border-left:3px solid #b3cdea;line-height:1.5}
+@media(max-width:700px){.architecture-flows{padding:10px}.architecture-flow-endpoint{flex-basis:118px;font-size:11px}.architecture-flow-connector{min-width:86px}}

diff --git a/assets/heading-nav.css b/assets/heading-nav.css
@@ -35,3 +35,12 @@
 .doc-layout[data-sidebar-collapsed="true"] .doc-toc nav{display:block!important;flex:1;min-height:0;overflow-y:auto}
 .doc-layout[data-sidebar-collapsed="true"] .genui-tree .genui-nav-level-1>a{font-size:0;padding:10px 3px!important;justify-content:center}
 .doc-layout[data-sidebar-collapsed="true"] .genui-tree .genui-nav-children{display:none!important}
+
+/* Unified navigation icon visibility: only a collapsed rail shows destination icons. */
+.sidebar nav a > svg,.sidebar nav a > img,
+.doc-toc nav a > svg,.doc-toc nav a > img,
+.mobile-toc nav a > svg,.mobile-toc nav a > img{display:none!important}
+.app[data-sidebar-collapsed="true"] .sidebar nav .genui-nav-level-1 > a > svg,
+.app[data-sidebar-collapsed="true"] .sidebar nav .genui-nav-level-1 > a > img,
+.doc-layout[data-sidebar-collapsed="true"] .doc-toc nav .genui-nav-level-1 > a > svg,
+.doc-layout[data-sidebar-collapsed="true"] .doc-toc nav .genui-nav-level-1 > a > img{display:block!important;flex:0 0 20px;width:20px;height:20px}

diff --git a/demo/ui-refresh.css b/demo/ui-refresh.css
@@ -142,7 +142,6 @@ pre.code-block .code-copy{top:7px;right:8px;width:27px;height:27px;min-height:27
 .paging #page-size{width:auto;min-width:62px;height:26px;min-height:26px;padding:2px 5px;font-size:12px}
 .paging .page-jump input{width:38px;height:26px;min-height:26px;padding:2px 3px;font-size:12px}
 .paging .page-jump{gap:4px}
-/* Table values use semantic text color only, never filled comparison chips. */
-.table-wrap .compare-value,.table-wrap td[data-compare-status],.table-wrap .status{background:transparent!important;border-color:transparent!important;box-shadow:none!important}
-.table-wrap .compare-value,.table-wrap .status{padding-inline:0}
+/* Preserve table borders and status badges; only color comparison text. */
+.table-wrap .compare-value{background:none;border:0;box-shadow:none;border-radius:0;padding:0}
 .table-wrap th,.table-wrap td{text-align:left!important}

diff --git a/assets/portal-shell.css b/assets/portal-shell.css
@@ -97,3 +97,7 @@ button{cursor:pointer}button:focus-visible,a:focus-visible,iframe:focus-visible,
  .portal.is-collapsed .portal-rail-resize{display:none}
 }
 @media(max-width:700px){.portal-rail-resize{display:none}}
+
+/* Portal link icons: expanded vs collapsed. */
+.portal:not(.is-collapsed) #page-nav .nav-glyph,.portal:not(.is-collapsed) #page-nav .page-link > svg,.portal:not(.is-collapsed) #page-nav .page-link > img{display:none!important}
+.portal.is-collapsed #page-nav .nav-glyph{display:flex!important}

diff --git a/references/architecture-patterns.md b/references/architecture-patterns.md
@@ -21,3 +21,11 @@
 4. 每个层级保留标题及实际实体名称；不会因美化创造服务、接口或架构层。
 5. 图表可选本地增强，普通 Markdown 不依赖任何 JS。HTML 的离线架构容器示例见 demo/architecture-patterns.html。
 6. 缩放、全屏、折叠、键盘控制按需支持，操作按钮统一图标、中文说明；真实 Chrome 验收和单元测试分别报告。
+
+## 真实工程案例与模型契约
+
+- 八类示例位于 demo/architecture-patterns.html，使用本地 Yopu（Gateway、CRM、Trade、Billing、IM）、StoryOS（Workflow/Task/Attempt、Agent、Trace/Artifact）工程模块和架构资料整理；展示的是逻辑协作，不代表所有服务已部署或通过运行验收。
+- 离线架构 JSON 支持可选 flows 数组，元素仅接受 from、to、label 三个字段；from/to 必须精确引用同一模型的顶层 groups[].name，不能重复自身。无可信关系时省略 flows，渲染器只画容器。
+- 每个方向连线由两个明确的容器端点、真实关系标签、可辨认的小尺寸箭头构成；标签文字决定连接线所需宽度，箭头尺寸固定，不因标签长而放大。移动端允许图内水平滚动，不允许页面整体横向溢出。
+- 可加载的目录图标在展开态默认隐藏，折叠后保留；数据对比表仅文字着色，绝不消除表格原有的边框、间距和斑马纹。
+- 本地例子不包含私有地址、端口、密钥或运营数据；涉及设计文档的部分请读者与运行代码区分。禁止基于未核实的设计推断实际生产部署。

diff --git a/references/semantic-diagram-model.md b/references/semantic-diagram-model.md
@@ -69,3 +69,9 @@
 6. 在 375/768/1440px 的中英文页面和不同图示交互后重新验证无遮挡、无横向页面溢出。
 7. **真实示例：** `demo/custom-diagram-model.html`（订单业务 ER / 订单时序，均由独立 JSON 生成）。
 
+
+## 连线长度与方向约束
+
+- 时序图相邻参与者之间的间距，根据消息标签的实际字体测量宽度动态扩展；长消息仍有上限和可访问的全文标签，不能无限挤压节点。
+- 具有确定方向的边使用 marker-end，保留对比适中的箭头尺寸。关系标签需避让节点、箭头尖端和其他标签；空间不足时显示可点击的外部标签入口，不能强行覆盖。
+- 紧凑的步骤流程可以使用 assets/flow-label-layout.js，按 SVG text.getComputedTextLength() 测量连接标签，扩展节点之间的水平间距，保证箭头方向并保持重入布局幂等。布局必须在缩放控制器初始化之前完成，不能在控制器捕获初始 viewBox 后异步改写。
